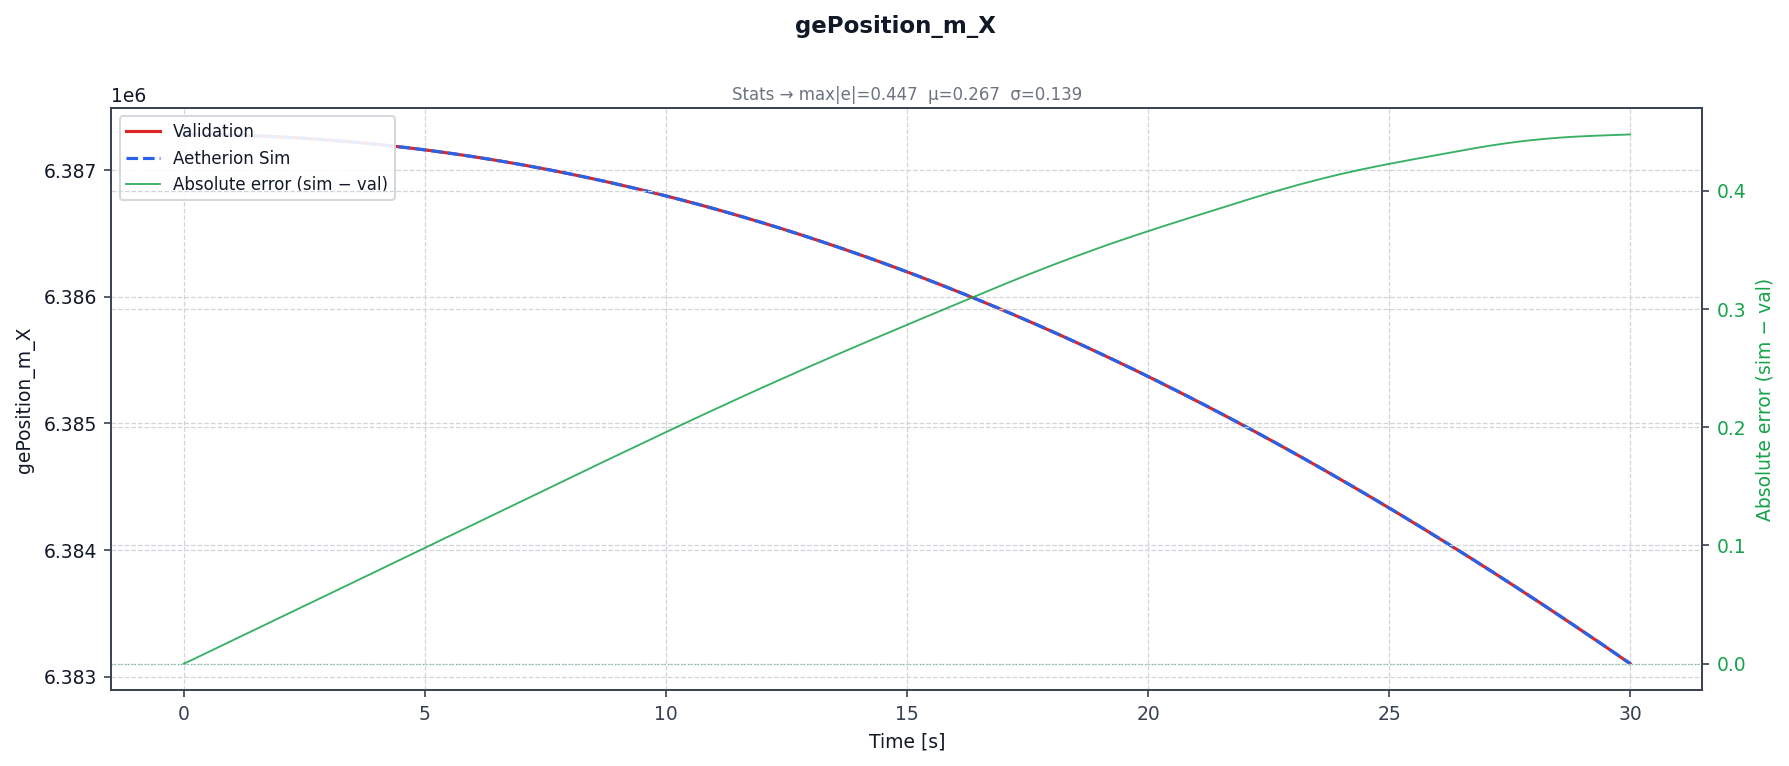
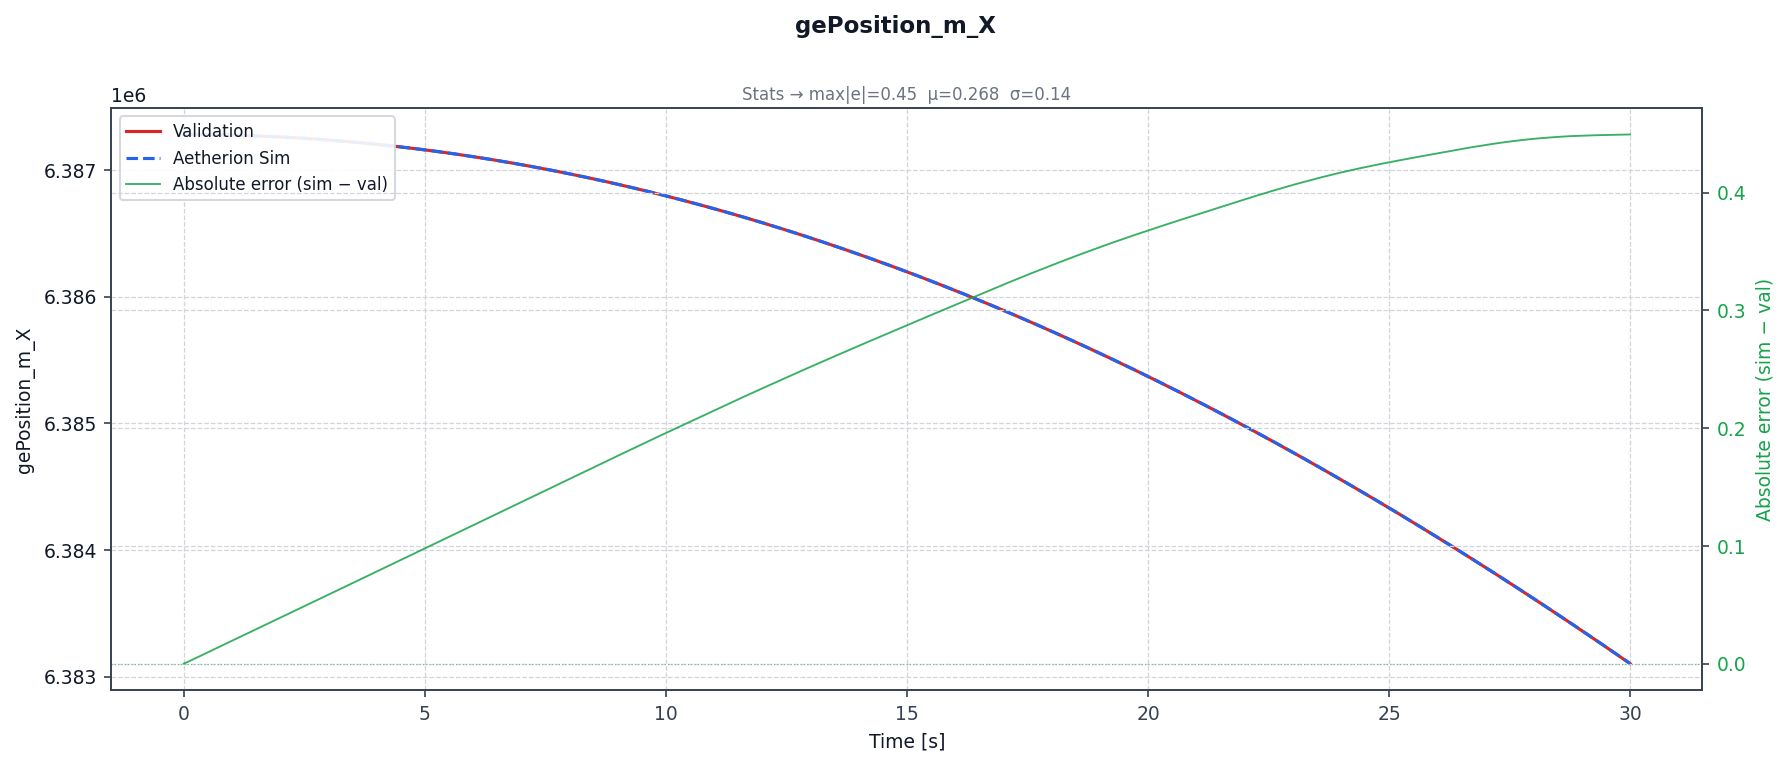
docs(atmos08): update Scenario 8 docs and plots for corrected linear wind model
examples.rst:
- Replace power-law description with exact NASA formula:
  v_E(h) = 0.003*h_m - 6.096 m/s  [(0.003*h_ft - 20) ft/s from west]
- Update wind parameters table with gradient/intercept values and
  zero-crossing altitude (2 032 m / 6 667 ft)
- Update validation table with new results (ΔTAS = 0.000 at t=30 s)
- Remove reference to empirical n=4/3 exponent
- Switch code example from PowerLawWindShear to LinearWindShear

aero_wind_policies.rst:
- Replace PowerLawWindShear section with LinearWindShear, including
  the gradient+intercept formulation and the exact NASA TM quote
- Update policy composition table and code example

31 PNG plots regenerated with corrected linear wind model.

diff --git a/doc/examples.rst b/doc/examples.rst
@@ -1390,17 +1390,21 @@ Dropped Sphere, 2D Wind Shear (NASA TM-2015-218675 Atmospheric Scenario 8)
 *Atmospheric and Space Flight Vehicle Equations of Motion*,
 Appendix B, Section B.1.8 — Atmospheric Simulation 08.
 
-Same sphere as Scenario 6 (CD = 0.1) dropped from 9 144 m, but now with a
-**power-law altitude wind shear**: the eastward wind grows from zero at sea
-level to 70 ft/s (21.336 m/s) at 30 000 ft (9 144 m) following
+Same sphere as Scenario 6 (CD = 0.1) dropped from 9 144 m into a
+**linearly varying altitude wind shear** specified in the NASA TM as:
+
+   *"V_wind = (0.003h − 20) ft/s from west; h is height MSL in ft."*
+
+Converting to SI:
 
 .. math::
 
-   v_E(h) = 21.336 \left(\frac{h}{9144}\right)^{4/3} \text{ m/s}.
+   v_E(h) = 0.003\,h_\text{m} - 6.096 \text{ m/s},
 
-The exponent :math:`n = 4/3 \approx 1.333` was fitted by least-squares to the
-NASA reference data (:math:`n_\text{fit} = 1.338`).  Even before the sphere
-starts falling, the non-zero wind at the initial altitude creates a TAS of
+where :math:`h_\text{m}` is the altitude above mean sea level in metres.
+The wind is 70 ft/s (21.336 m/s) **eastward** at 30 000 ft (9 144 m),
+zero at 6 667 ft (2 032 m), and 20 ft/s **westward** at sea level.
+Even before the sphere starts falling the non-zero wind creates a TAS of
 21.336 m/s and an eastward drag force.
 
 Physics Model
@@ -1410,12 +1414,12 @@ Physics Model
 
    using DroppedSphere2DWindShearVF = RigidBody::VectorField<
        FlightDynamics::J2GravityPolicy,
-       FlightDynamics::WindAwareDragPolicy<PowerLawWindShear>,
+       FlightDynamics::WindAwareDragPolicy<LinearWindShear>,
        FlightDynamics::ZeroPropulsionPolicy,
        FlightDynamics::ConstantMassPolicy
    >;
 
-The ``PowerLawWindShear`` model and the general ``WindAwareDragPolicy`` are
+The ``LinearWindShear`` model and the general ``WindAwareDragPolicy`` are
 described in detail in :ref:`aero_wind_policies`.
 
 Initial Conditions
@@ -1425,7 +1429,7 @@ Identical to :ref:`example_steady_wind` (Scenario 7) except for the wind model.
 Configuration read from
 :file:`data/Atmos_08_DroppedSphere2DWindShear/nasa_2015_scenario8_dropped_sphere_2d_wind_shear.json`.
 
-Key wind parameters:
+Key wind parameters (``windShear`` JSON section):
 
 .. list-table::
    :header-rows: 1
@@ -1434,12 +1438,18 @@ Key wind parameters:
    * - Parameter
      - Value
      - Notes
-   * - East wind at h = 9 144 m
-     - 21.336 m/s (70 ft/s)
-     - Reference wind speed
-   * - Shear exponent :math:`n`
-     - 4/3 ≈ 1.333
-     - Least-squares fit to Atmos_08_sim_01
+   * - East wind gradient
+     - 0.003 m/s per m
+     - = 0.003 ft/s per ft (exact from NASA TM)
+   * - East wind intercept (h = 0)
+     - −6.096 m/s
+     - = −20 ft/s (westward at sea level)
+   * - v_E at h = 9 144 m
+     - 0.003 × 9144 − 6.096 = **21.336 m/s**
+     - Matches initial TAS in reference ✓
+   * - Zero crossing
+     - h = 6.096 / 0.003 = **2 032 m** (6 667 ft)
+     - Wind reversal altitude
    * - North wind
      - 0.0 m/s
      - East-only shear
@@ -1485,48 +1495,48 @@ Validation Results
      - 9 022.390
      - +0.098
      - 52.905
-     - 52.902
-     - −0.003
+     - 52.907
+     - +0.002
    * - 10
      - 8 658.937
      - 8 659.133
      - +0.196
      - 98.488
-     - 98.471
-     - −0.017
+     - 98.479
+     - −0.009
    * - 15
      - 8 059.325
-     - 8 059.611
-     - +0.286
+     - 8 059.612
+     - +0.287
      - 144.023
-     - 144.006
-     - −0.017
+     - 144.011
+     - −0.011
    * - 20
      - 7 233.060
-     - 7 233.426
-     - +0.366
+     - 7 233.428
+     - +0.368
      - 187.569
-     - 187.560
-     - −0.009
+     - 187.559
+     - −0.010
    * - 25
      - 6 194.871
-     - 6 195.294
-     - +0.422
+     - 6 195.297
+     - +0.426
      - 227.792
-     - 227.796
-     - +0.004
+     - 227.786
+     - −0.006
    * - 30
      - **4 965.582**
-     - **4 966.030**
-     - **+0.447**
+     - **4 966.032**
+     - **+0.449**
      - **263.313**
-     - **263.328**
-     - **+0.015**
+     - **263.313**
+     - **0.000**
 
-Altitude error 0.447 m (0.009%) and TAS error < 0.006% at t = 30 s —
+Altitude error 0.449 m (0.009%) and TAS error essentially zero at t = 30 s —
 the same rotating-Earth systematic offset as all previous scenarios.
-The eastward drift (NED east velocity) matches to ~0.05 m/s throughout,
-a small residual from the empirical n = 4/3 wind-profile approximation.
+The wind formula is the exact NASA specification:
+:math:`v_E(h) = 0.003\,h_\text{m} - 6.096` m/s (linear, not a power law).
 
 Comparison Plots
 ^^^^^^^^^^^^^^^^

diff --git a/doc/aero_wind_policies.rst b/doc/aero_wind_policies.rst
@@ -216,24 +216,28 @@ longitude.
 
 **Used in**: Scenario 7 (steady 20 ft/s eastward wind).
 
-PowerLawWindShear
-~~~~~~~~~~~~~~~~~
+LinearWindShear
+~~~~~~~~~~~~~~~
 
-Wind magnitude varies with geocentric altitude following a power law:
+Wind varies **linearly** with geocentric altitude in each NED component:
 
 .. math::
 
-   \mathbf{v}_\mathrm{wind,ECEF}(\mathbf{r},t)
-   = \mathbf{v}_\mathrm{ref,ECEF}
-     \left(\frac{h}{h_\mathrm{ref}}\right)^n,
+   v_N(h) = \alpha_N \, h + \beta_N, \quad
+   v_E(h) = \alpha_E \, h + \beta_E,
 
 where :math:`h = \|\mathbf{r}_\mathrm{ECI}\| - R_e` is the geocentric
-altitude, :math:`\mathbf{v}_\mathrm{ref,ECEF}` is the wind vector at the
-reference altitude :math:`h_\mathrm{ref}`, and :math:`n` is the shear
-exponent.
+altitude, :math:`\alpha` is the altitude gradient [m/s per m], and
+:math:`\beta` is the sea-level intercept [m/s].  The NED wind is converted
+to ECEF once at construction from the launch latitude/longitude.
 
-For NASA TM-2015-218675 Scenario 8 (70 ft/s at 30 000 ft), a least-squares
-fit to the reference data gives :math:`n \approx 4/3 \approx 1.333`.
+For NASA TM-2015-218675 Scenario 8 the formula is given explicitly:
+
+   *"Vwind = (0.003h − 20) ft/s from west; h is height MSL in ft."*
+
+In SI units: :math:`v_E(h) = 0.003\,h_\text{m} - 6.096` m/s
+(:math:`\alpha_E = 0.003`, :math:`\beta_E = -6.096`, :math:`\alpha_N = \beta_N = 0`).
+The wind is eastward above 2 032 m (6 667 ft), zero there, and westward below.
 
 **Used in**: Scenario 8 (2D wind shear).
 
@@ -314,14 +318,13 @@ The policy is instantiated as, for example:
 .. code-block:: cpp
 
    using ShearPolicy =
-       WindAwareDragPolicy<PowerLawWindShear>;
+       WindAwareDragPolicy<LinearWindShear>;
 
    ShearPolicy p{ CD, S_ref,
-                  PowerLawWindShear::from_ned(
-                      0.0, 21.336, 0.0,   // NED wind at h_ref [m/s]
-                      lat0, lon0,
-                      9144.0,             // h_ref [m]
-                      4.0/3.0) };         // shear exponent
+                  LinearWindShear::from_ned(
+                      0.0,    0.003,    // gradient  (N, E) [m/s per m]
+                      0.0,   -6.096,   // intercept (N, E) [m/s at h=0]
+                      lat0, lon0) };
 
 
 Snapshot Air-Data Corrections
@@ -386,10 +389,10 @@ Policy Composition Summary
      - ✗
      - Earth rotation + constant wind
      - 7
-   * - ``WindAwareDragPolicy<PowerLawWindShear>``
+   * - ``WindAwareDragPolicy<LinearWindShear>``
      - ✓
      - ✗
-     - Earth rotation + shear wind
+     - Earth rotation + linear altitude shear
      - 8
    * - ``WindAwareDragPolicy<GeodesicCallbackWind>``
      - ✓
